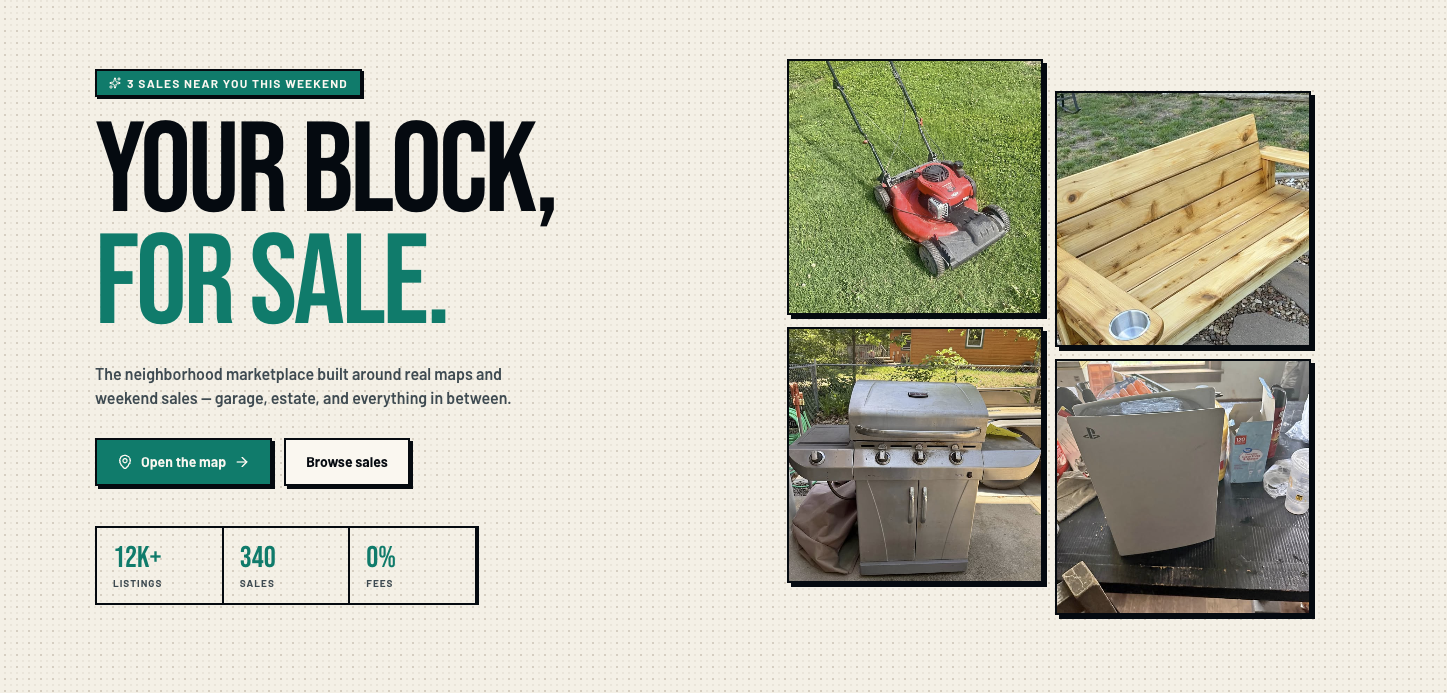
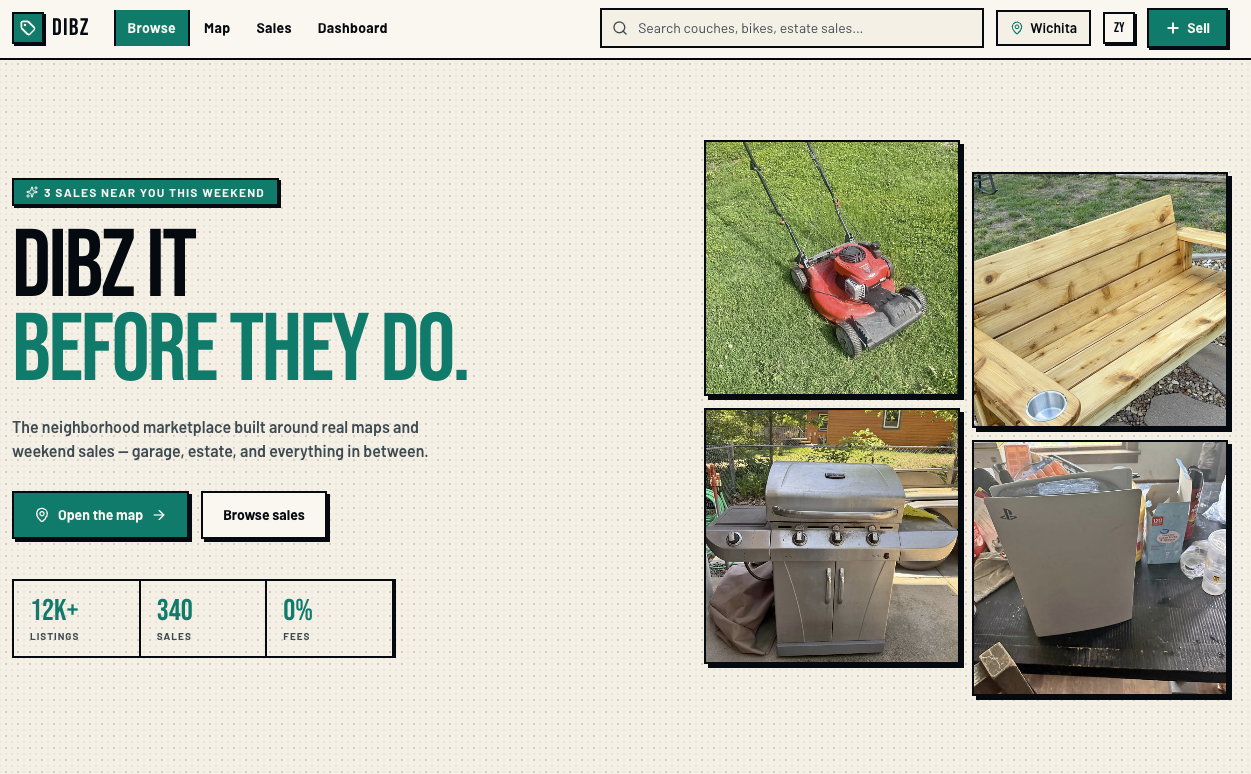
feat: new tagline "Dibz it before they do" + updated OG image

diff --git a/app/page.tsx b/app/page.tsx
@@ -37,9 +37,9 @@ export default function Browse() {
             >
               <Sparkles className="h-3 w-3" /> {sales} sales near you this weekend
             </span>
-            <h1 className="mt-5 font-display text-5xl leading-[0.88] tracking-tight md:text-7xl">
-              Your next score<br />
-              <span className="text-primary">is next door.</span>
+            <h1 className="mt-5 font-display text-6xl leading-[0.88] tracking-tight md:text-8xl">
+              Dibz it<br />
+              <span className="text-primary">before they do.</span>
             </h1>
             <p className="mt-5 max-w-md text-base font-semibold text-muted-foreground">
               The neighborhood marketplace built around real maps and weekend sales — garage, estate, and everything in between.